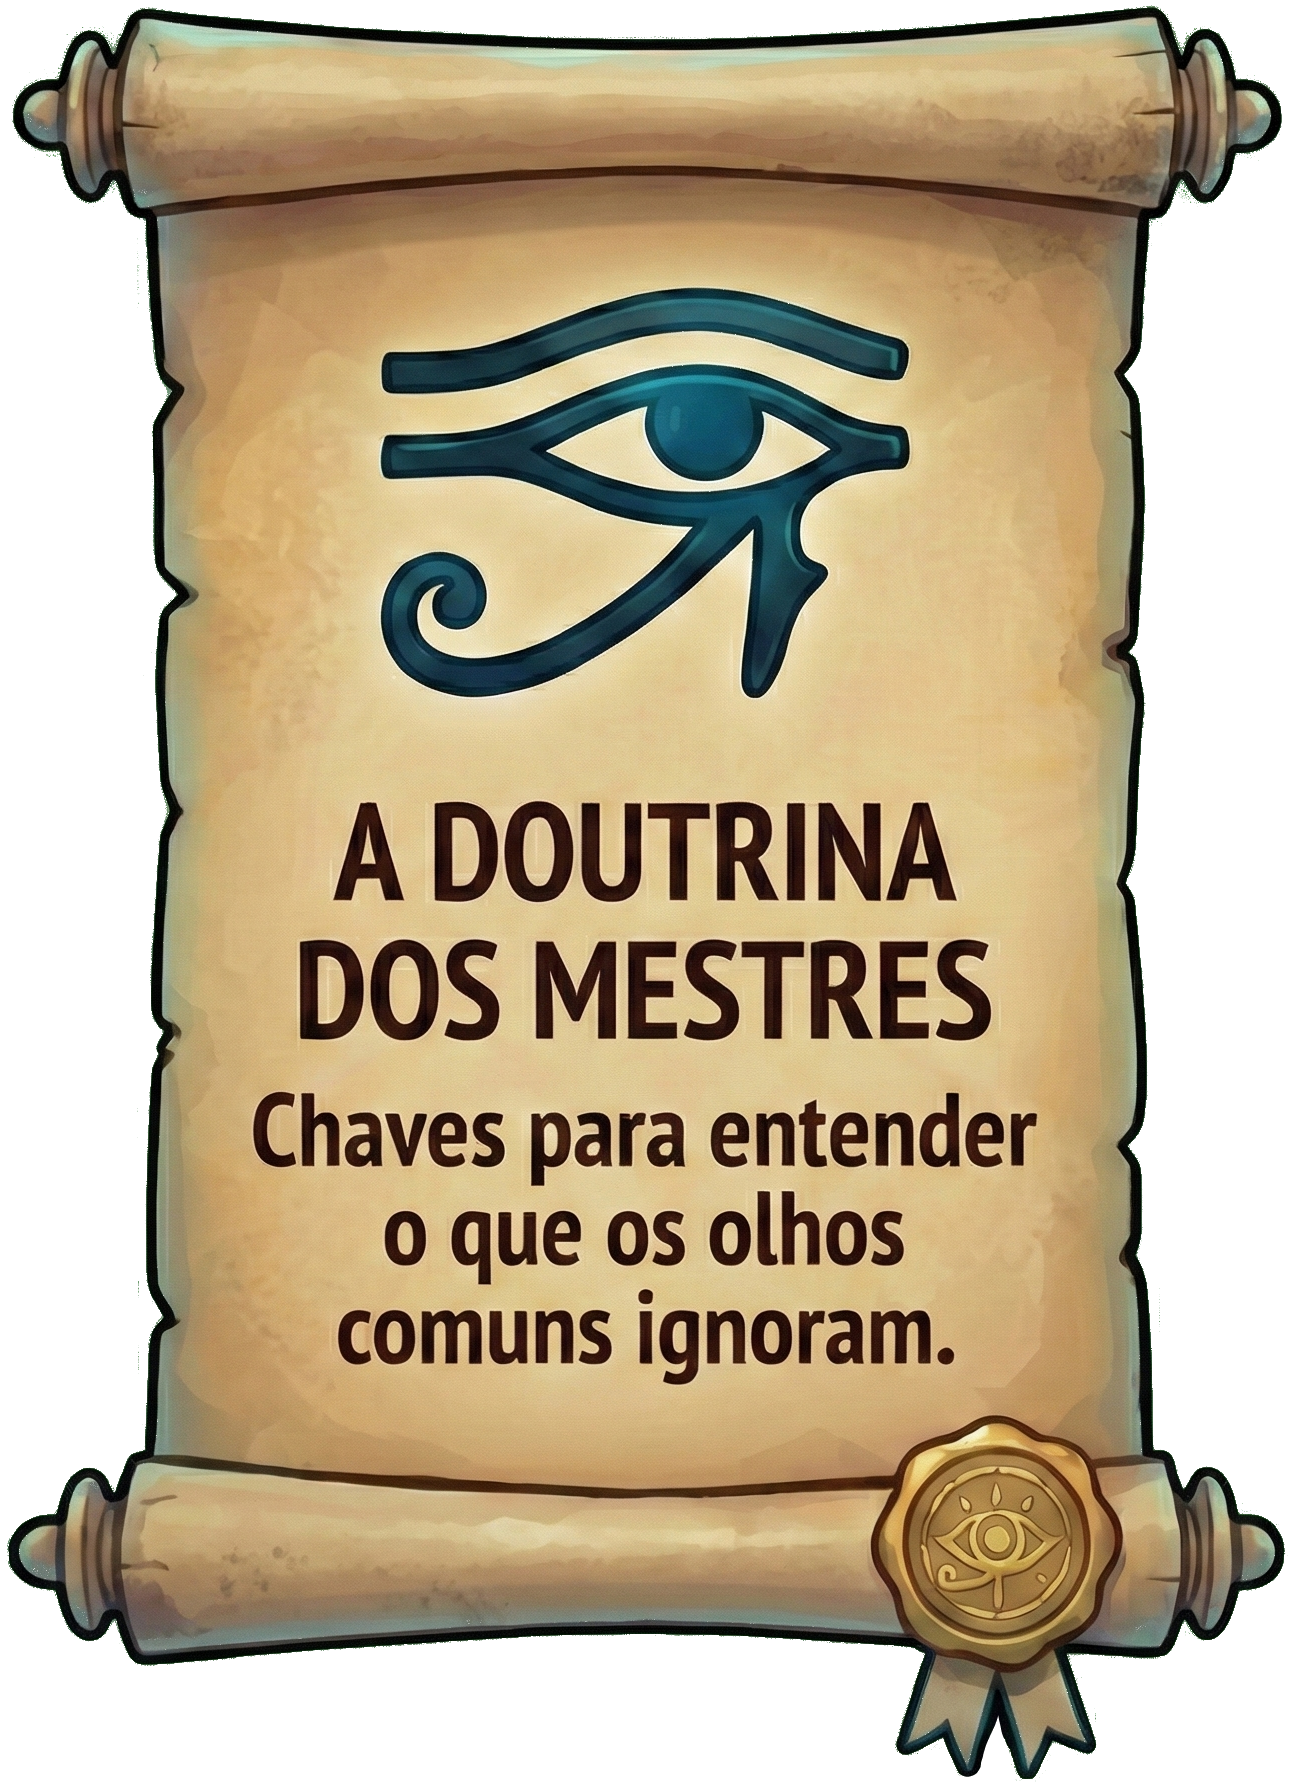
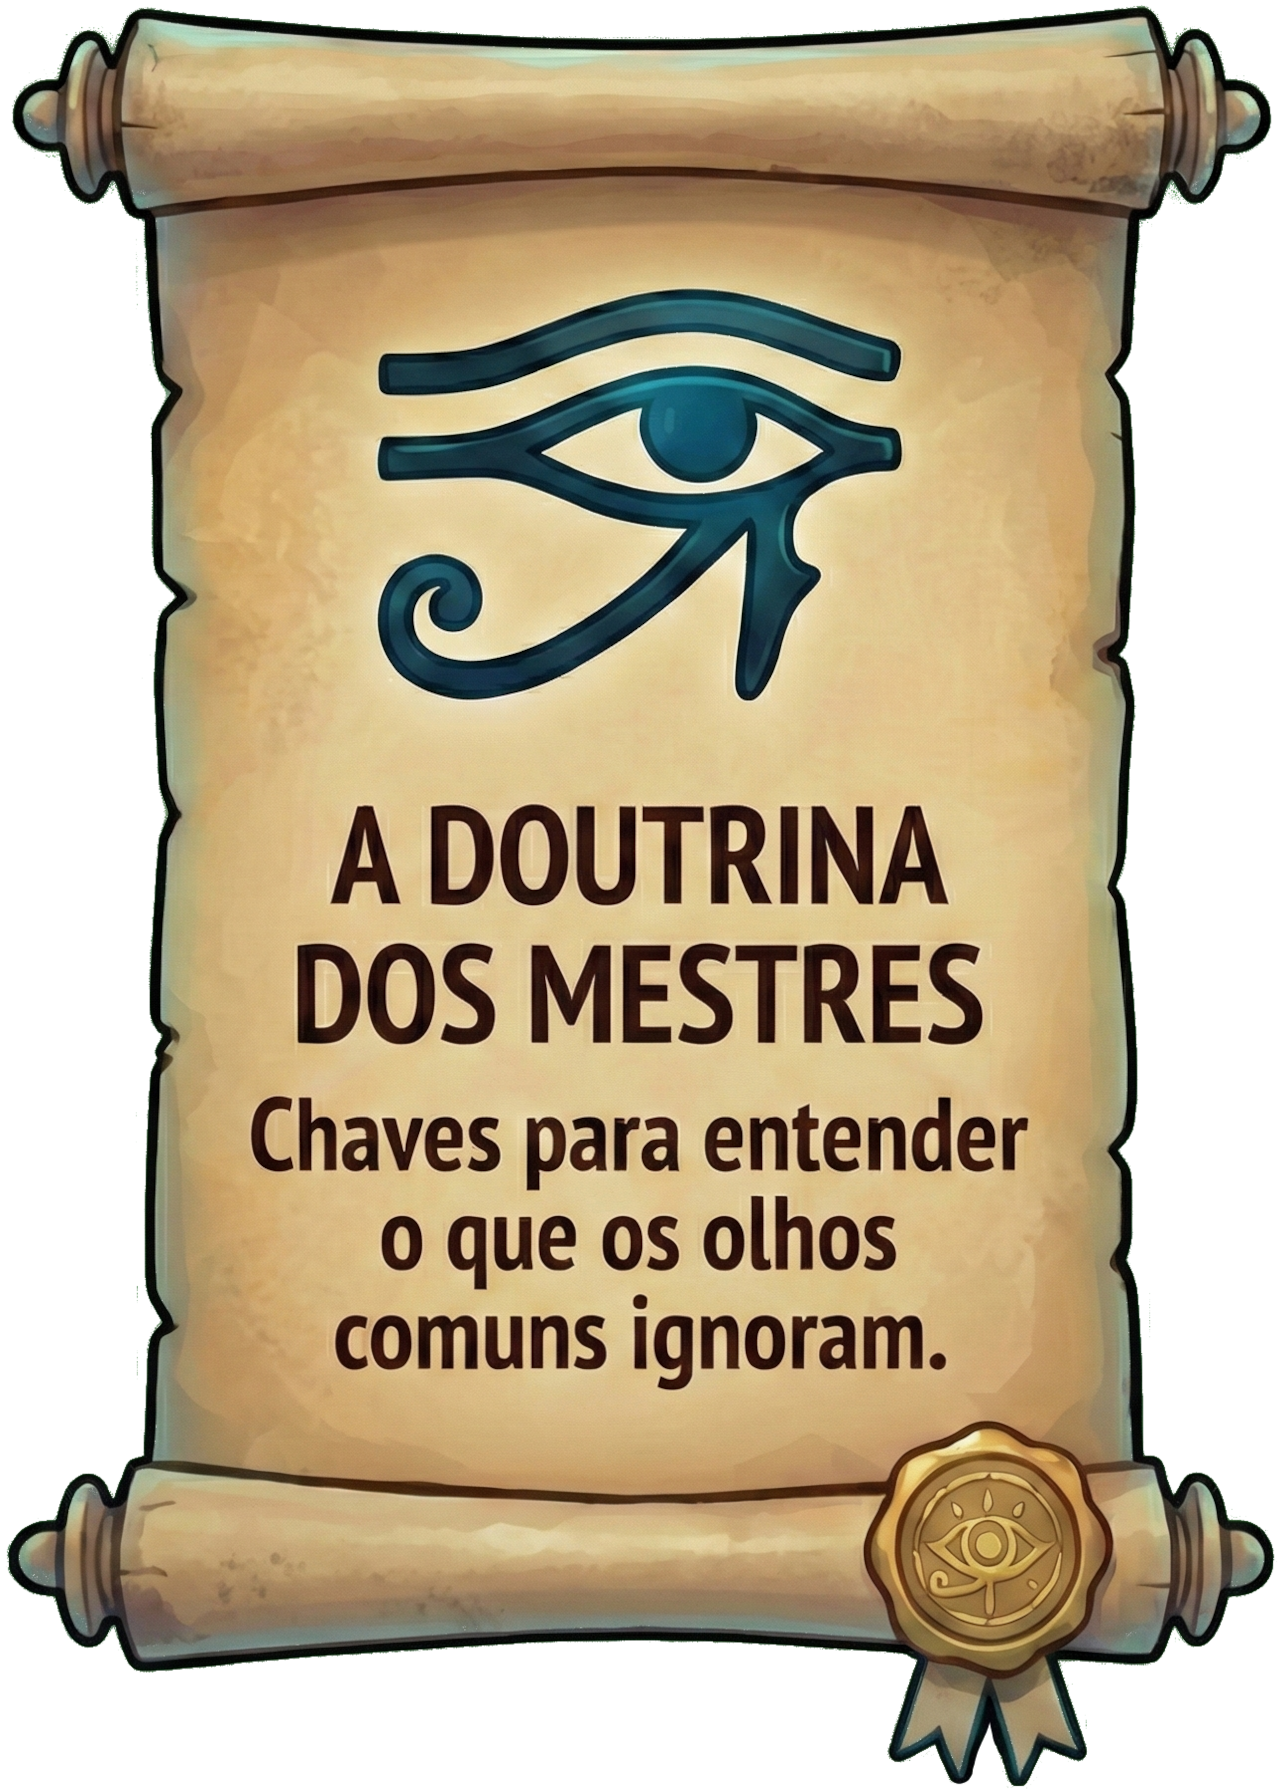
Card Update

diff --git a/src/components/landing/StoryCard.tsx b/src/components/landing/StoryCard.tsx
@@ -14,28 +14,34 @@ export function ScrollCard({ imageSrc, altText, linkUrl }: ScrollCardProps) {
       className="
         block 
         relative 
-        w-full 
         cursor-pointer
+        group
+
+        /* --- PADRONIZAÇÃO DE TAMANHO (Igual ao Carrossel e Catálogos) --- */
+        w-[200px] h-[300px]       /* Mobile */
+        md:w-[260px] md:h-[390px] /* Desktop */
+        /* --------------------------------------------------------------- */
+
         transition-all 
         duration-500
         hover:-translate-y-2 /* O pergaminho flutua para cima */
         hover:scale-[1.02]   /* Aumenta levemente */
-        group
       "
     >
       {/* Imagem do Pergaminho */}
       <Image
         src={imageSrc}
         alt={altText}
-        width={400}
-        height={600}
+        fill /* Usa fill para preencher o tamanho fixo definido acima */
         className="
-          w-full h-auto 
+          object-contain /* Garante que o pergaminho inteiro apareça sem cortar */
           drop-shadow-lg 
-          /* AQUI ESTÁ A MUDANÇA: Brilho Azul Neon ao passar o mouse */
-          group-hover:drop-shadow-[0_0_20px_rgba(0,240,255,0.5)]
+          
+          /* Brilho Azul Neon ao passar o mouse */
+          group-hover:drop-shadow-[0_0_20px_rgba(0,240,255,0.6)]
           transition-all duration-500
         "
+        sizes="(max-width: 768px) 200px, 260px"
       />
     </Link>
   );
